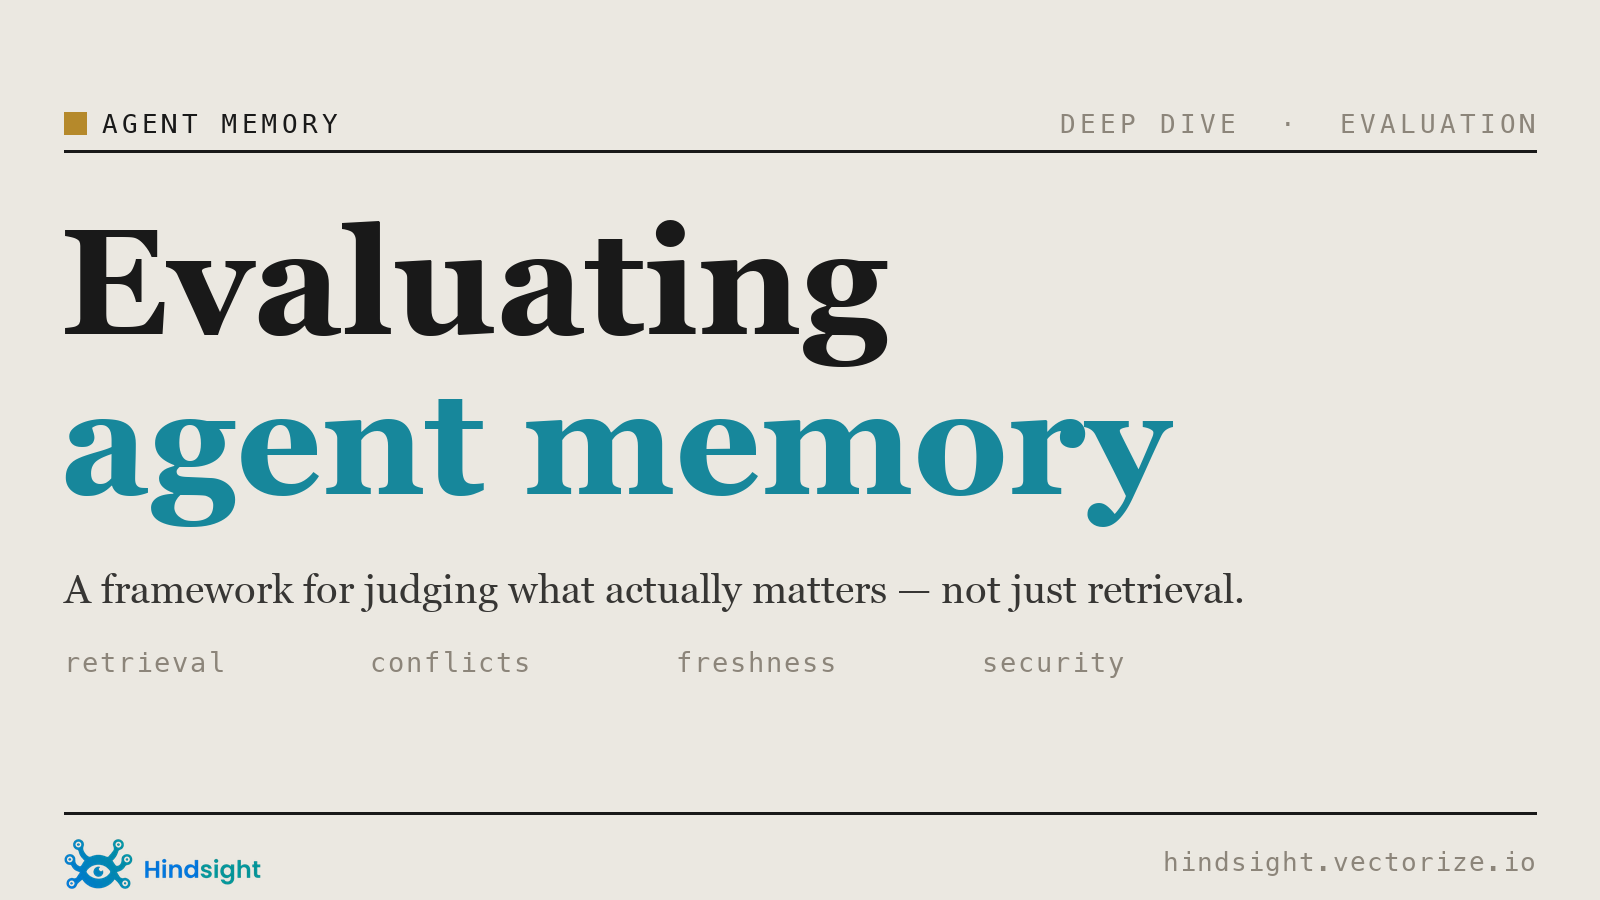
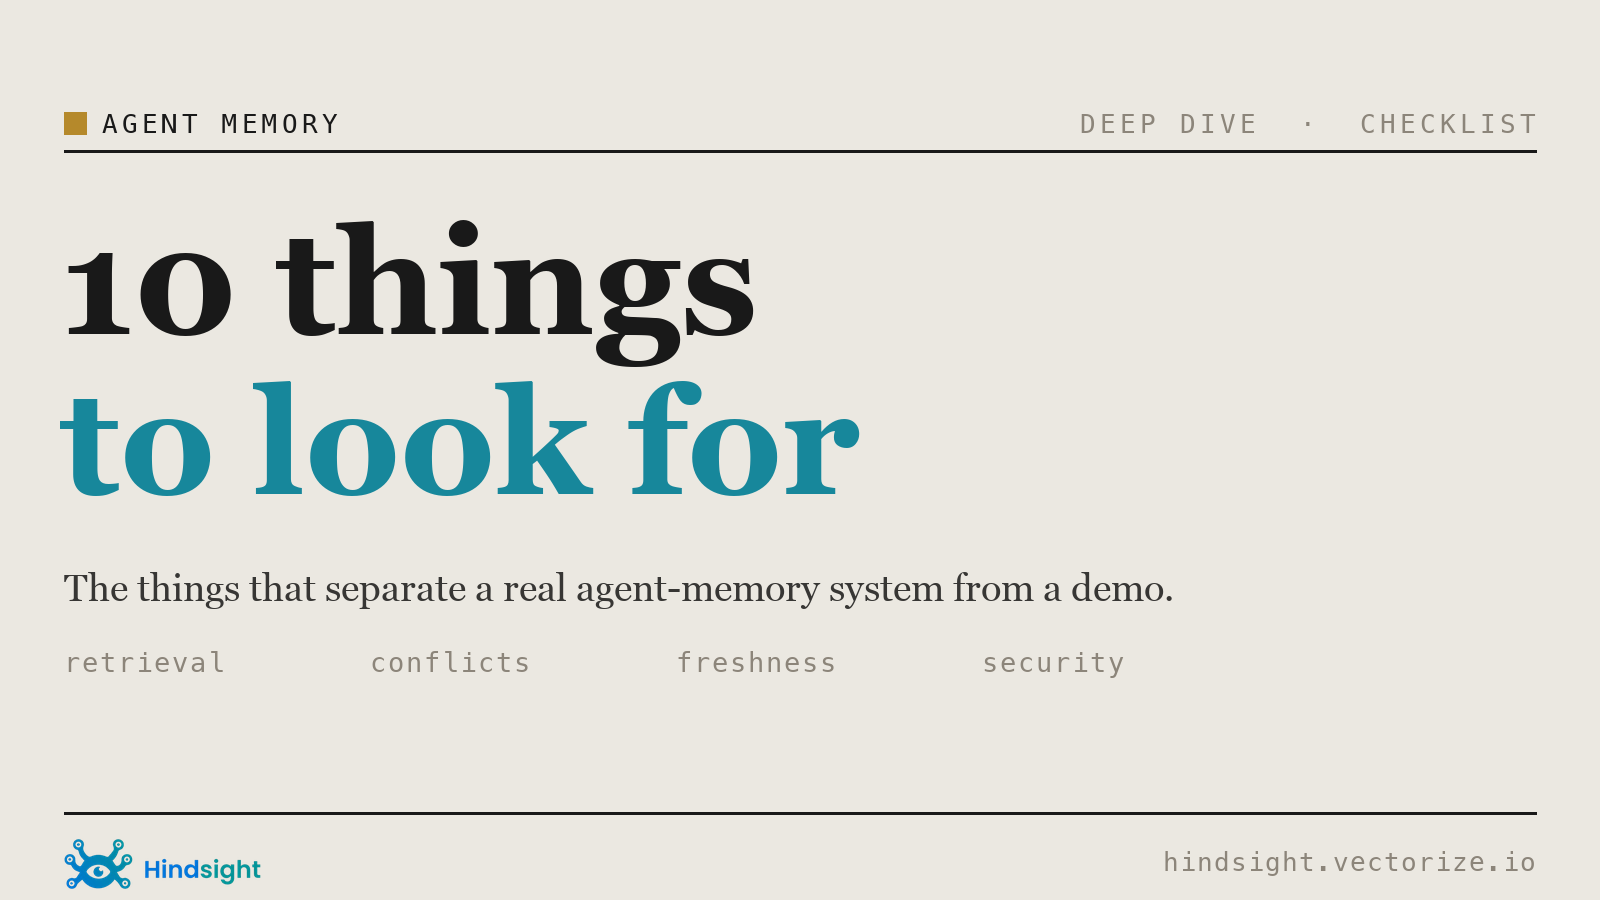
blog: retitle to "The 10 Things to Look For", swap LongMemEval→BEAM
Reviewer feedback:
- Drop "(2026)" from the title (blog posts don't use a year; that's the
  /articles convention).
- Retitle to the listicle framing "The 10 Things to Look For in an
  Agent-Memory System"; number the dimensions table and checklist 1–10 so the
  count is honest and consistent.
- Reframe the benchmark section around BEAM (10M-token tier) instead of
  LongMemEval, kept loose — the takeaway is "build your own eval on your
  domain." Remove LongMemEval-specific competitor scores.
- New editorial cover ("10 things / to look for", CHECKLIST tag).

diff --git a/hindsight-docs/blog/2026-07-31-evaluate-agent-memory-system.md b/hindsight-docs/blog/2026-07-31-evaluate-agent-memory-system.md
@@ -1,19 +1,19 @@
 ---
-title: "How to Actually Evaluate an Agent-Memory System (2026)"
-description: "A practical framework for evaluating agent memory: retrieval beyond vector similarity, conflict resolution, freshness, security, self-hosting, and how to read LongMemEval."
+title: "The 10 Things to Look For in an Agent-Memory System"
+description: "The 10 things that separate a real agent-memory system from a demo: retrieval, conflict resolution, freshness, security, self-hosting, observability, and more."
 authors: [benfrank241]
 slug: "2026/07/31/evaluate-agent-memory-system"
 date: 2026-07-31T12:00
-tags: [hindsight, agent-memory, evaluation, benchmark, longmemeval]
+tags: [hindsight, agent-memory, evaluation, benchmark, beam]
 image: /img/blog/evaluate-agent-memory-system.png
 hide_table_of_contents: true
 ---
 
-![Evaluating agent memory: a framework for judging retrieval, conflicts, freshness, and security](/img/blog/evaluate-agent-memory-system.png)
+![The 10 things to look for in an agent-memory system: retrieval, conflicts, freshness, security, and more](/img/blog/evaluate-agent-memory-system.png)
 
 Most agent-memory evaluations test one thing: given a query, did the system return the right chunk. Then the system ships, and the failures show up somewhere else entirely — a preference the agent never updated, a fact from six months ago it treated as current, a customer's card number sitting in a bank three tenants can read.
 
-Retrieval accuracy is table stakes. It's necessary and nowhere near sufficient. If you're choosing an agent-memory system (or building one), the real question is how it behaves on the dimensions that don't show up in a quickstart demo. This is a framework for evaluating those dimensions, plus a checklist you can run against any candidate.
+Retrieval accuracy is table stakes. It's necessary and nowhere near sufficient. If you're choosing an agent-memory system (or building one), the real question is how it behaves on the dimensions that don't show up in a quickstart demo. These are the ten things that actually separate a real system from a demo, plus a checklist you can run against any candidate.
 
 <!-- truncate -->
 
@@ -32,22 +32,22 @@ Almost every demo evaluates step four in isolation: seed a bank with clean facts
 
 So the first rule of evaluating agent memory: **test the whole lifecycle, not just the read.** Everything below is organized around that.
 
-## The agent-memory dimensions that actually matter
+## The 10 things to look for in an agent-memory system
 
-Here is the short version as a scannable table. Each row is a capability, what to test, and the red flag that tells you the system is weaker than its landing page.
+Here is the short version as a scannable table: ten things to look for, what to test for each, and the red flag that tells you the system is weaker than its landing page.
 
-| Dimension | What to test | Red flag |
-|---|---|---|
-| Retrieval beyond similarity | Multi-hop and entity/time-scoped queries, not just paraphrase lookups | Pure vector top-k, no reranking |
-| Extraction & consolidation | Store the same fact 5 ways; count duplicates and invented facts | Raw transcript storage, growing duplicates |
-| Entity resolution | Refer to one thing by three names across sessions | Three separate entities for one concept |
-| Conflict resolution | Change a stored preference; ask again | Both old and new returned, no supersession |
-| Freshness / temporal | "What did I say last week?"; superseded facts | No event dates, no valid-time model |
-| Test-time learning | Teach a fact mid-session; use it in the same session | New info ignored until a re-index job runs |
-| Security | Feed it a secret/PII; check what got stored and who can read it | Secrets stored verbatim, no scoping |
-| Data ownership | Can you self-host it with your own database? | Cloud-only, or bring-your-own external DBs |
-| Observability | Ask why a memory was recalled | Opaque; no trace of what matched and why |
-| Multi-tenant scoping | Store as tenant A, recall as tenant B | Leakage across users with default config |
+| # | What to look for | How to test | Red flag |
+|---|---|---|---|
+| 1 | Retrieval beyond similarity | Multi-hop and entity/time-scoped queries, not just paraphrase lookups | Pure vector top-k, no reranking |
+| 2 | Extraction & consolidation | Store the same fact 5 ways; count duplicates and invented facts | Raw transcript storage, growing duplicates |
+| 3 | Entity resolution | Refer to one thing by three names across sessions | Three separate entities for one concept |
+| 4 | Conflict resolution | Change a stored preference; ask again | Both old and new returned, no supersession |
+| 5 | Freshness / temporal | "What did I say last week?"; superseded facts | No event dates, no valid-time model |
+| 6 | Test-time learning | Teach a fact mid-session; use it in the same session | New info ignored until a re-index job runs |
+| 7 | Security | Feed it a secret/PII; check what got stored and who can read it | Secrets stored verbatim, no scoping |
+| 8 | Data ownership | Can you self-host it with your own database? | Cloud-only, or bring-your-own external DBs |
+| 9 | Observability | Ask why a memory was recalled | Opaque; no trace of what matched and why |
+| 10 | Multi-tenant scoping | Store as tenant A, recall as tenant B | Leakage across users with default config |
 
 The rest of this section takes the capability rows one at a time. The operational rows (security, ownership, observability, scoping) get their own section after.
 
@@ -117,11 +117,11 @@ If you serve more than one user, the single most important architectural questio
 
 ## How to read a benchmark without fooling yourself
 
-Benchmarks are useful and routinely misread. LongMemEval is the standard for long-term conversational memory, and it is more than a single number: it scores information extraction, cross-session reasoning, knowledge updating, temporal reasoning, and — the one people forget — **refusal of unknowns**, whether the system correctly says "I don't know" instead of confabulating. A high aggregate score built on weak refusal behavior is a liability, not an asset.
+Public benchmarks are useful context and a bad substitute for your own eval. The first trap is age. The benchmarks most people cite — LoCoMo, LongMemEval — were designed in the 32K-context era, when you physically could not fit a long history into one model call, so needing a memory system was the premise. With million-token windows, a naive "dump everything into context" baseline now scores competitively on them. A high number no longer distinguishes a real memory architecture from a context stuffer.
 
-Three habits keep you honest. Read the **split**: "94.6% on LongMemEval-s" means something specific, and a score with no split named means nothing. Read the **model**, because the same memory system swings several points depending on the LLM doing extraction and answering. And read the **methodology**, because a self-reported number with no reproducible harness is marketing.
+[BEAM](https://arxiv.org/pdf/2510.27246) ("Beyond a Million Tokens") is the one worth watching, because it tests at context lengths up to **10 million tokens**, where stuffing is physically impossible and only a system that can retrieve from a too-large pool survives. If you want a single public number to sanity-check retrieval at scale, look there rather than at the older datasets. (For the record, Hindsight currently leads BEAM's 10M tier at 64.1% versus the next-best 40.6% — [the details are here](/blog/2026/04/02/beam-sota) — but treat that as a reason to trust the architecture, not as your evaluation.)
 
-For reference, on the LongMemEval-s split, Hindsight scores 94.6%, the highest published score among major commercial agent-memory frameworks, on the public [Agent Memory Benchmark](https://agentmemorybenchmark.ai/) leaderboard; SuperMemory is at 81.6%, Zep at 71.2%, and Mem0 at 67.6%. Several newer research systems sit at or above Hindsight, so this is a claim about production-ready commercial frameworks, not a claim of universal supremacy. How that leaderboard is [actually run](/blog/2026/03/23/agent-memory-benchmark) — the harness, the prompts, the scoring — matters more than the ranking. The point is not which number is biggest. The point is that you now know how to interrogate any number a vendor hands you, including ours.
+Whatever number you look at, read it critically: what context length and split it used, which model did the extraction and answering (the same memory system swings several points across LLMs), and whether the harness is reproducible. Then set it aside. **No public benchmark reflects your data, your query mix, or your failure costs. The only eval that predicts your production behavior is the one you build on your own domain — which is the next section.**
 
 ## Run the eval yourself
 
@@ -137,20 +137,18 @@ You do not need a research lab to do this well. You need a small, honest harness
 
 Copy this. A candidate that cannot check most of these boxes is a demo, not a memory system.
 
-| ✅ | Capability |
-|---|---|
-| ☐ | Retrieval combines more than vector similarity (entity, temporal, graph) |
-| ☐ | Results are reranked, not raw top-k |
-| ☐ | Facts are extracted and deduplicated, not stored as raw transcript |
-| ☐ | Entity resolution merges aliases across sessions |
-| ☐ | Conflicting facts are superseded, with history retrievable |
-| ☐ | Facts carry event dates; relative-time queries work |
-| ☐ | New information is usable in the same session (or you know it isn't) |
-| ☐ | Secrets and PII are scrubbed before storage |
-| ☐ | Self-hostable with a license and datastore you accept |
-| ☐ | Retrieval is inspectable — you can see why something was recalled |
-| ☐ | Tenant isolation is explicit and you have tested a cross-tenant recall |
-| ☐ | Benchmark claims name a split, a model, and a reproducible method |
+| # | ✅ | What to look for |
+|---|---|---|
+| 1 | ☐ | Retrieval combines more than vector similarity (entity, temporal, graph) and reranks, not raw top-k |
+| 2 | ☐ | Facts are extracted and deduplicated, not stored as raw transcript |
+| 3 | ☐ | Entity resolution merges aliases across sessions |
+| 4 | ☐ | Conflicting facts are superseded, with history retrievable |
+| 5 | ☐ | Facts carry event dates; relative-time queries work |
+| 6 | ☐ | New information is usable in the same session (or you know it isn't) |
+| 7 | ☐ | Secrets and PII are scrubbed before storage |
+| 8 | ☐ | Self-hostable with a license and datastore you accept |
+| 9 | ☐ | Retrieval is inspectable — you can see why something was recalled |
+| 10 | ☐ | Tenant isolation is explicit and you have tested a cross-tenant recall |
 
 ## Evaluate the whole system, not the demo
 
